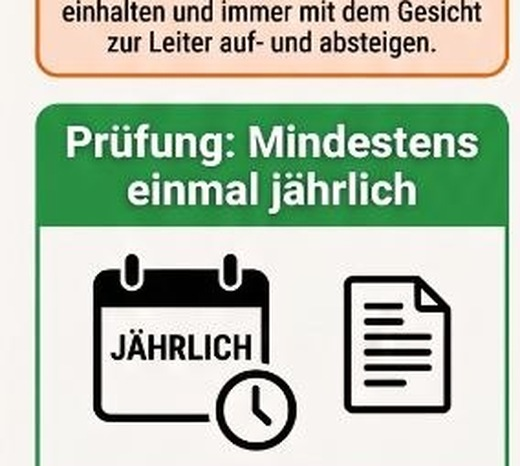
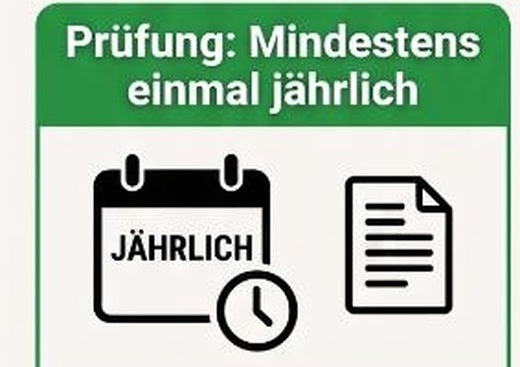
v162: Kacheln pruefung-jaehrlich + sicht-check: Text oben abgeschnitten, nur Piktogramme

diff --git a/sw.js b/sw.js
@@ -3,7 +3,7 @@
 //  v3.2 – Vereinfacht: Network-First für alles außer Supabase
 // ============================================================
 =======
-const CACHE_NAME = 'schulung-v161';
+const CACHE_NAME = 'schulung-v162';
 
 
 // ── INSTALL: Sofort aktivieren ───────────────────────────────
